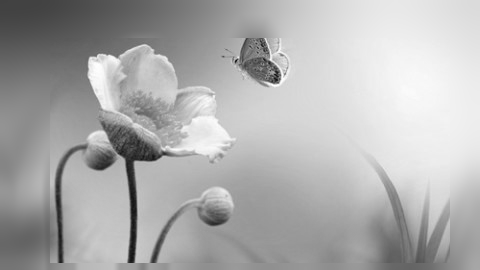
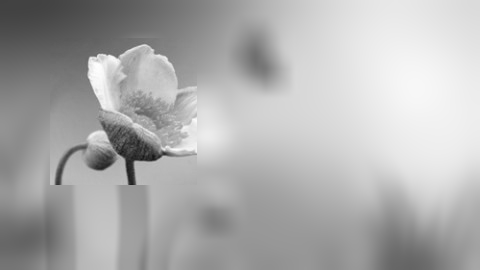
edited

diff --git a/static/assets/js/index.js b/static/assets/js/index.js
@@ -66,6 +66,8 @@ function updateImageDisplay() {
     const curFiles = upload_btn.files;
     file_name = curFiles[0].name;
     console.log(curFiles[0].name)
+    // sr="--------------------------------------"
+    // console.log(sr)
 
     $.ajax({
         url: "/save_image",
@@ -73,6 +75,6 @@ function updateImageDisplay() {
         contentType: "application/json",
         data: JSON.stringify(file_name),
     });
-
+    // console.log("--------------------------------------")
 
 }

diff --git a/functions.py b/functions.py
@@ -78,68 +78,58 @@ def read_images(cropped_indecies):
 
 
 
-def minimum(a, b):
+def minimum(a, b):  
     if a <= b:
         return a
     else:
         return b
 
-
-def save_img(img_1d, img_height, img_width, file_name):
-    img_2d = img_1d.reshape((img_height, img_width))
+def save_img(img_1d,img_height,img_width,file_name):
+    img_2d=img_1d.reshape((img_height, img_width))
     cv2.imwrite("static/assets/images/outputs/"+file_name+'.png', img_2d)
 
-
-def blur_image(img, cropped_indecies, file_name):
+def blur_image(img,cropped_indecies,file_name):
     print(cropped_indecies)
-    left = cropped_indecies[0]
-    top = cropped_indecies[1]
-    width = cropped_indecies[2]
-    height = cropped_indecies[3]
+    left  =cropped_indecies[0]
+    top   =cropped_indecies[1]
+    width =cropped_indecies[2]
+    height=cropped_indecies[3]
 
-    kept_part = img[top:top+height, left:left+width]
-    blurred_part = cv2.blur(img, ksize=(30, 30))
-    result = blurred_part.copy()
+    kept_part=img[top:top+height, left:left+width]
+    blurred_part = cv2.blur(img, ksize=(30, 30) )
+    result=blurred_part.copy()
     result[top:top+height, left:left+width] = kept_part
-    cv2.imwrite("static/assets/images/after_blurring/" +
-                file_name+'.png', result)
+    cv2.imwrite("static/assets/images/after_blurring/"+file_name+'.png', result)
     print('doneeeee')
     return result
 
-<<<<<<< HEAD
 def process_1dImage(img1_gray,img2_gray,img_height,img_width):
 
     #----------------Resizing
-=======
-
-def process_1dImage(img1_gray, img2_gray, img_height, img_width):
-
-    # ----------------Resizing
->>>>>>> 7d637521e63c9d61c9fe7fd10d084a668ec46af5
     img1_resized = cv2.resize(img1_gray, (img_width, img_height))
     img2_resized = cv2.resize(img2_gray, (img_width, img_height))
-    # ---------converting it to a 1d array
-    img1_1dArray = img1_resized.flatten()
-    img2_1dArray = img2_resized.flatten()
-    # -------------- fourier transform
-    f = np.fft.fft(img1_1dArray)
+    #---------converting it to a 1d array
+    img1_1dArray=img1_resized.flatten()
+    img2_1dArray=img2_resized.flatten()
+    #-------------- fourier transform
+    f  = np.fft.fft(img1_1dArray)
     f2 = np.fft.fft(img2_1dArray)
 
     combined_img1 = np.multiply(np.abs(f), np.exp(1j*np.angle(f2)))
     combined_img2 = np.multiply(np.abs(f2), np.exp(1j*np.angle(f)))
+   
 
     imgCombined1 = np.real(np.fft.ifft(combined_img1))
     imgCombined2 = np.real(np.fft.ifft(combined_img2))
 
-    return imgCombined1, imgCombined2
-
+    return  imgCombined1 ,imgCombined2
 
 def read_2images(cropped_indecies):
-
+        
     # --------reading files by matplot and opencv
     images_files = glob('static/assets/images/inputs/*.jpg')
-    img_file1 = images_files[1]
-    img_file2 = images_files[3]
+    img_file1=images_files[1]
+    img_file2=images_files[4]
 
     img1_mpl = plt.imread(img_file1)
     img1_cv2 = cv2.imread(img_file1)
@@ -152,28 +142,32 @@ def read_2images(cropped_indecies):
     cv2.imwrite("static/assets/images/outputs/original_img2.png", img2_gray)
 
     # --------getting height width
-    img1_height = len(img1_mpl)
-    img1_width = len(img1_mpl[0])
+    img1_height =len(img1_mpl)
+    img1_width  =len(img1_mpl[0])
 
-    img2_height = len(img2_mpl)
-    img2_width = len(img2_mpl[0])
+    img2_height =len(img2_mpl)
+    img2_width  =len(img2_mpl[0])
 
-    # --------------- processing then display output
-    new_height = minimum(img1_height, img2_height)
-    new_width = minimum(img1_width, img2_width)
+    #--------------- processing then display output
+    new_height  =minimum(img1_height,img2_height)
+    new_width   =minimum(img1_width ,img2_width)
 
-    if(cropped_indecies[1] == 0):
+    if(cropped_indecies[1]==0):
         print('nothing')
         # img1_gray=blur_image(img1_gray,[100,100,150,250],'blurr1')
         # img2_gray=blur_image(img2_gray,[100,100,150,250],'blurr2')
 
+
     else:
-        img1_gray = blur_image(img1_gray, cropped_indecies[:4], 'blurr1')
-        img2_gray = blur_image(img2_gray, cropped_indecies[4:], 'blurr2')
+        img1_gray=blur_image(img1_gray,cropped_indecies[:4],'blurr1')
+        img2_gray=blur_image(img2_gray,cropped_indecies[4:],'blurr2')
 
-    img1, img2 = process_1dImage(img1_gray, img2_gray, new_height, new_width)
 
-    save_img(img1, new_height, new_width, 'output_image1')
-    save_img(img2, new_height, new_width, 'output_image2')
+    img1,img2=process_1dImage(img1_gray,img2_gray,new_height,new_width)  
 
-    # display_2grayimgs(img1,img2,new_height,new_width,new_height,new_width)
+    save_img(img1,new_height,new_width,'output_image1')
+    save_img(img2,new_height,new_width,'output_image2') 
+
+     # display_2grayimgs(img1,img2,new_height,new_width,new_height,new_width)
+
+

diff --git a/main.py b/main.py
@@ -1,5 +1,5 @@
-from flask import Flask, render_template, send_file, request, redirect, jsonify
-import functions as fn
+from flask import Flask, render_template, send_file, request, redirect,jsonify
+import functions as fn 
 import numpy as np
 
 
@@ -8,39 +8,24 @@ app = Flask(__name__)
 
 @app.route("/", methods=["GET", "POST"])
 def index():
-<<<<<<< HEAD
     cropped_indecies=np.zeros(10)
     fn.read_images(cropped_indecies) 
-=======
-    cropped_indecies = np.zeros(8)
-    fn.read_2images(cropped_indecies)
-
->>>>>>> 7d637521e63c9d61c9fe7fd10d084a668ec46af5
     return render_template('index.html')
-
-
+        
 @app.route('/crop_image1', methods=['POST'])
 def crop_image1():
     output = request.get_json()
 
-<<<<<<< HEAD
     cropped_indecies=[0,0,0,0,0,0,0,0,0,0]
     cropped_indecies[0]=int(round(output['pic1']['left']))
     cropped_indecies[1]=int(round(output['pic1']['top'] ))
     cropped_indecies[2]=int(round(output['pic1']['width']))
     cropped_indecies[3]=int(round(output['pic1']['height']))
-=======
-    cropped_indecies = [0, 0, 0, 0, 0, 0, 0, 0]
-    cropped_indecies[0] = int(round(output['pic1']['left']))
-    cropped_indecies[1] = int(round(output['pic1']['top']))
-    cropped_indecies[2] = int(round(output['pic1']['width']))
-    cropped_indecies[3] = int(round(output['pic1']['height']))
->>>>>>> 7d637521e63c9d61c9fe7fd10d084a668ec46af5
 
-    cropped_indecies[4] = int(round(output['pic2']['left']))
-    cropped_indecies[5] = int(round(output['pic2']['top']))
-    cropped_indecies[6] = int(round(output['pic2']['width']))
-    cropped_indecies[7] = int(round(output['pic2']['height']))
+    cropped_indecies[4]=int(round(output['pic2']['left']))
+    cropped_indecies[5]=int(round(output['pic2']['top'] ))
+    cropped_indecies[6]=int(round(output['pic2']['width']))
+    cropped_indecies[7]=int(round(output['pic2']['height']))
 
     cropped_indecies[8]=int(output['pic1_choice'])
     cropped_indecies[9]=int(output['pic2_choice'])
@@ -50,14 +35,6 @@ def crop_image1():
     fn.read_images(cropped_indecies)
     return output
 
-
-@app.route('/save_image', methods=['POST'])
-def save_image():
-    print('---------------------------------------------')
-    output = request.get_json()
-    print('---------------------------------------------')
-    print(output)
-    return output
 # @app.route('/crop_image2', methods=['POST'])
 # def crop_image2():
 #     output = request.get_json()
@@ -75,17 +52,12 @@ def save_image():
 #     # cropped_indecies[7]=round(output['height'])
 #     # fn.read_2images(cropped_indecies)
 #     return output
-<<<<<<< HEAD
 @app.route('/save_image', methods=['POST'])
 def save_image():
     output = request.get_json()
     print(output) 
     return output
     
-=======
-
-
->>>>>>> 7d637521e63c9d61c9fe7fd10d084a668ec46af5
 if __name__ == "__main__":
-
+    
     app.run(debug=True, threaded=True)
